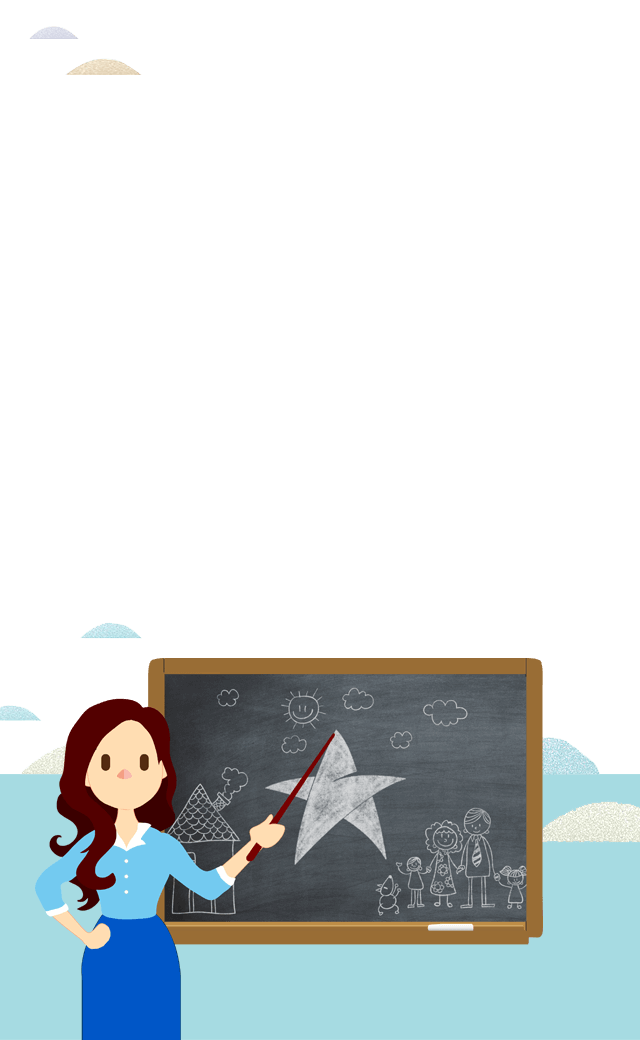
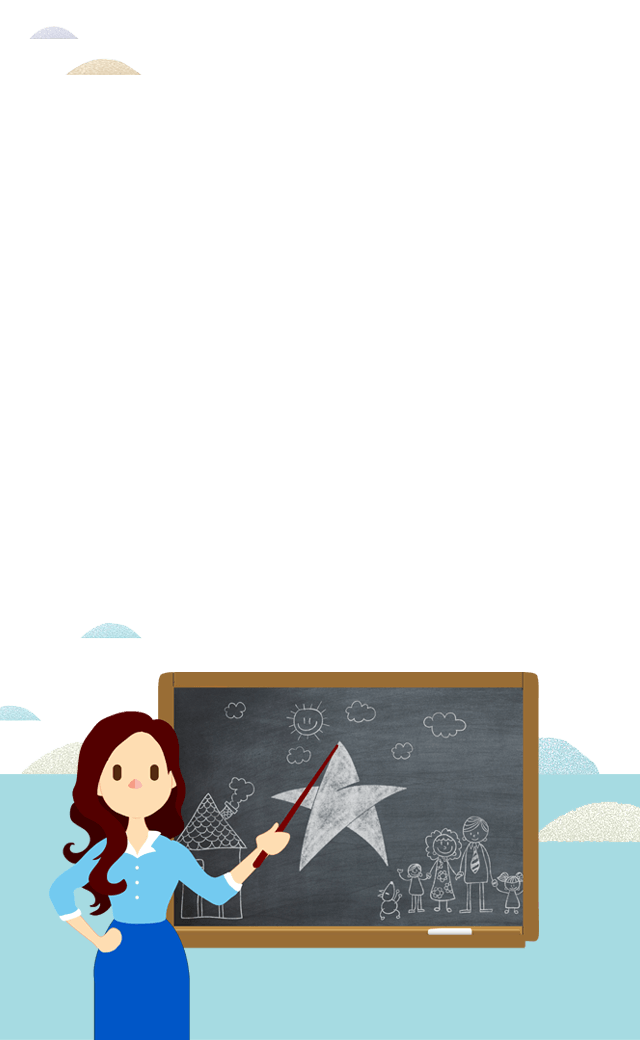
##

Changed region(s): [[0.0312, 0.6154, 0.875, 1.0], [0.625, 0.7077, 0.6562, 0.7385]]

diff --git a/css/index.css b/css/index.css
@@ -35,12 +35,10 @@
         -o-transform: rotate(90deg);
         transform: rotate(90deg);}
 }
-.pic{position: absolute; width: 68%; height: 68vw; left: 16%; top: 8%; opacity: 0; -webkit-transform-origin: 0 0; -moz-transform-origin: 0 0; -ms-transform-origin: 0 0; -o-transform-origin: 0 0; transform-origin: 0 0; -webkit-animation: fadeIn 0.8s ease-in 0.1s forwards; -o-animation: fadeIn 0.8s ease-in 0.1s forwards; animation: fadeIn 0.8s ease-in 0.1s forwards;}
-.pic img{width: 66vw; height: 66vw; position: absolute; left: 1vw; top: 1vw;}
-.page3 .pic img,.page9 .pic img{width: 66vw; position: absolute; left: 1vw; top: 1vw;}
-.page7 .pic img{width: 67vw; position: absolute; left: 0.5vw; top: 0.5vw;}
+.pic{position: absolute; width: 66%; height: 66vw; left: 17%; top: 7%; opacity: 0; -webkit-transform-origin: 0 0; -moz-transform-origin: 0 0; -ms-transform-origin: 0 0; -o-transform-origin: 0 0; transform-origin: 0 0; -webkit-animation: fadeIn 0.8s ease-in 0.1s forwards; -o-animation: fadeIn 0.8s ease-in 0.1s forwards; animation: fadeIn 0.8s ease-in 0.1s forwards;}
+.pic img{width: 64vw; height: 64vw; position: absolute; left: 1vw; top: 1vw;}
 .border{width: 100%; height: 100%; background-color: transparent; position: absolute; border: 2vw solid #afe2a6; }
-.word{position: absolute; top: calc(10% + 68vw);opacity: 0; -webkit-animation: fadeIn 0.8s ease-in 0.3s forwards; -o-animation: fadeIn 0.8s ease-in 0.3s forwards; animation: fadeIn 0.8s ease-in 0.3s forwards; }
+.word{position: absolute; top: calc(9% + 66vw);opacity: 0; -webkit-animation: fadeIn 0.8s ease-in 0.3s forwards; -o-animation: fadeIn 0.8s ease-in 0.3s forwards; animation: fadeIn 0.8s ease-in 0.3s forwards; }
 .bg{width: 100%; height: 100%; opacity: 0; animation: fadeIn 0.8s ease-in 0.3s forwards;}
 .page1 .pic{-webkit-animation: fadeIn 0.8s ease-in 0.1s forwards; -o-animation: fadeIn 0.8s ease-in 0.1s forwards; animation: fadeIn 0.8s ease-in 0.1s forwards;}
 .fadeIn .word{ opacity: 1;}
